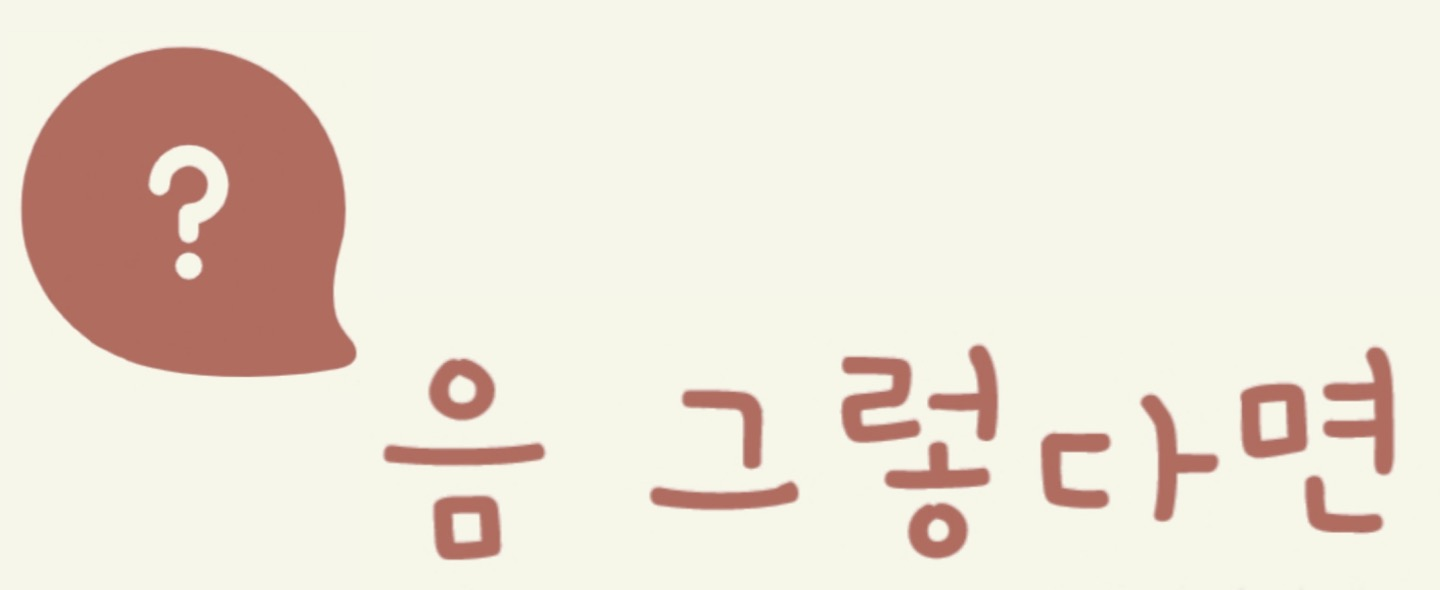
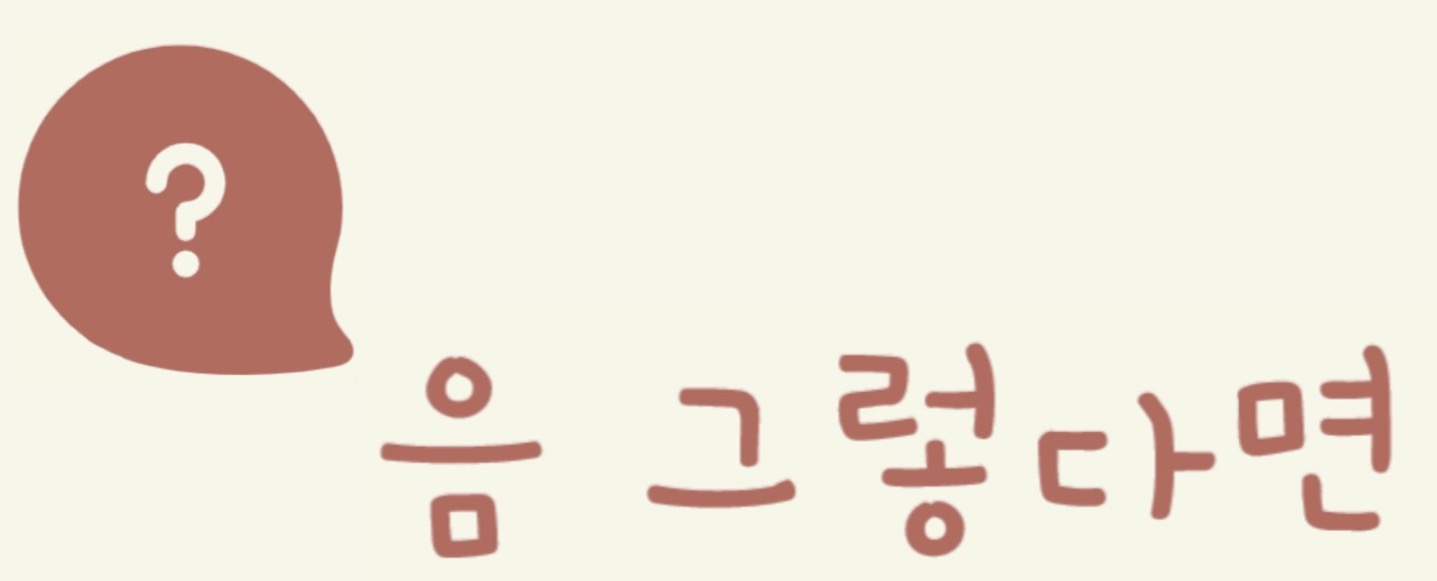
commit

diff --git a/static/js/redirect.js b/static/js/redirect.js
@@ -1,0 +1,177 @@
+/*
+jQuery Redirect v1.1.3
+Copyright (c) 2013-2018 Miguel Galante
+Copyright (c) 2011-2013 Nemanja Avramovic, www.avramovic.info
+Licensed under CC BY-SA 4.0 License: http://creativecommons.org/licenses/by-sa/4.0/
+This means everyone is allowed to:
+Share - copy and redistribute the material in any medium or format
+Adapt - remix, transform, and build upon the material for any purpose, even commercially.
+Under following conditions:
+Attribution - You must give appropriate credit, provide a link to the license, and indicate if changes were made. You may do so in any reasonable manner, but not in any way that suggests the licensor endorses you or your use.
+ShareAlike - If you remix, transform, or build upon the material, you must distribute your contributions under the same license as the original.
+*/
+;(function ($) {
+  'use strict';
+
+  //Defaults configuration
+  var defaults = {
+    url: null,
+    values: null,
+    method: "POST",
+    target: null,
+    traditional: false,
+    redirectTop: false
+  };
+
+  /**
+  * jQuery Redirect
+  * @param {string} url - Url of the redirection
+  * @param {Object} values - (optional) An object with the data to send. If not present will look for values as QueryString in the target url.
+  * @param {string} method - (optional) The HTTP verb can be GET or POST (defaults to POST)
+  * @param {string} target - (optional) The target of the form. "_blank" will open the url in a new window.
+  * @param {boolean} traditional - (optional) This provides the same function as jquery's ajax function. The brackets are omitted on the field name if its an array.  This allows arrays to work with MVC.net among others.
+  * @param {boolean} redirectTop - (optional) If its called from a iframe, force to navigate the top window.
+  *//**
+  * jQuery Redirect
+  * @param {string} opts - Options object
+  * @param {string} opts.url - Url of the redirection
+  * @param {Object} opts.values - (optional) An object with the data to send. If not present will look for values as QueryString in the target url.
+  * @param {string} opts.method - (optional) The HTTP verb can be GET or POST (defaults to POST)
+  * @param {string} opts.target - (optional) The target of the form. "_blank" will open the url in a new window.
+  * @param {boolean} opts.traditional - (optional) This provides the same function as jquery's ajax function. The brackets are omitted on the field name if its an array.  This allows arrays to work with MVC.net among others.
+  * @param {boolean} opts.redirectTop - (optional) If its called from a iframe, force to navigate the top window.
+  */
+  $.redirect = function (url, values, method, target, traditional, redirectTop) {
+    var opts = url;
+    if (typeof url !== "object") {
+      var opts = {
+        url: url,
+        values: values,
+        method: method,
+        target: target,
+        traditional: traditional,
+        redirectTop: redirectTop
+      };
+    }
+
+    var config = $.extend({}, defaults, opts);
+    var generatedForm = $.redirect.getForm(config.url, config.values, config.method, config.target, config.traditional);
+    $('body', config.redirectTop ? window.top.document : undefined).append(generatedForm.form);
+    generatedForm.submit();
+    generatedForm.form.remove();
+  };
+
+  $.redirect.getForm = function (url, values, method, target, traditional) {
+    method = (method && ["GET", "POST", "PUT", "DELETE"].indexOf(method.toUpperCase()) !== -1) ? method.toUpperCase() : 'POST';
+
+    url = url.split("#");
+    var hash = url[1] ? ("#" + url[1]) : "";
+    url = url[0];
+
+    if (!values) {
+      var obj = $.parseUrl(url);
+      url = obj.url;
+      values = obj.params;
+    }
+
+    values = removeNulls(values);
+
+    var form = $('<form>')
+      .attr("method", method)
+      .attr("action", url + hash);
+
+
+    if (target) {
+      form.attr("target", target);
+    }
+
+    var submit = form[0].submit;
+    iterateValues(values, [], form, null, traditional);
+
+    return { form: form, submit: function () { submit.call(form[0]); } };
+  }
+
+  //Utility Functions
+	/**
+	 * Url and QueryString Parser.
+	 * @param {string} url - a Url to parse.
+	 * @returns {object} an object with the parsed url with the following structure {url: URL, params:{ KEY: VALUE }}
+	 */
+  $.parseUrl = function (url) {
+
+    if (url.indexOf('?') === -1) {
+      return {
+        url: url,
+        params: {}
+      };
+    }
+    var parts = url.split('?'),
+      query_string = parts[1],
+      elems = query_string.split('&');
+    url = parts[0];
+
+    var i, pair, obj = {};
+    for (i = 0; i < elems.length; i += 1) {
+      pair = elems[i].split('=');
+      obj[pair[0]] = pair[1];
+    }
+
+    return {
+      url: url,
+      params: obj
+    };
+  };
+
+  //Private Functions
+  var getInput = function (name, value, parent, array, traditional) {
+    var parentString;
+    if (parent.length > 0) {
+      parentString = parent[0];
+      var i;
+      for (i = 1; i < parent.length; i += 1) {
+        parentString += "[" + parent[i] + "]";
+      }
+
+      if (array) {
+        if (traditional)
+          name = parentString;
+        else
+          name = parentString + "[" + name + "]";
+      } else {
+        name = parentString + "[" + name + "]";
+      }
+    }
+
+    return $("<input>").attr("type", "hidden")
+      .attr("name", name)
+      .attr("value", value);
+  };
+
+  var iterateValues = function (values, parent, form, isArray, traditional) {
+    var i, iterateParent = [];
+    Object.keys(values).forEach(function (i) {
+      if (typeof values[i] === "object") {
+        iterateParent = parent.slice();
+        iterateParent.push(i);
+        iterateValues(values[i], iterateParent, form, Array.isArray(values[i]), traditional);
+      } else {
+        form.append(getInput(i, values[i], parent, isArray, traditional));
+      }
+    });
+  };
+
+  var removeNulls = function (values) {
+    var propNames = Object.getOwnPropertyNames(values);
+    for (var i = 0; i < propNames.length; i++) {
+      var propName = propNames[i];
+      if (values[propName] === null || values[propName] === undefined) {
+        delete values[propName];
+      } else if (typeof values[propName] === 'object') {
+        values[propName] = removeNulls(values[propName]);
+      } else if (values[propName].length < 1) {
+        delete values[propName];
+      }
+    }
+    return values;
+  };
+}(window.jQuery || window.Zepto || window.jqlite));

diff --git a/templates/home.html b/templates/home.html
@@ -1,4 +1,4 @@
-<!DOCTYPE html> 
+<!DOCTYPE html>
 <html lang="kr">
 <head>
     <meta charset="UTF-8">
@@ -10,7 +10,13 @@
     <link rel="stylesheet" href="../static/style.css">
     <link rel="stylesheet" href="https://cdnjs.cloudflare.com/ajax/libs/animate.css/4.1.1/animate.min.css"/>
     <link href="https://fonts.googleapis.com/css2?family=Nanum+Pen+Script&display=swap" rel="stylesheet">
-
+    <script src="../static/js/redirect.js"></script>
+    <script >
+        var test_msg;
+        function test(){
+            $.redirect('/result', {msg:test_msg});
+        }
+    </script>
 </head>
 <body>
     <div id="wrapper">
@@ -48,7 +54,7 @@
                 <p>오늘 당신의 기분은!</p>
                 <p>기쁨, 슬픔, 무관심</p>
                 <div id="home-container_recommend">
-                    <button style="width: 200px; font-size: 24px;" class="submitButton" onclick="window.location.href='/result'">오늘 우리가<br>당신에게 할 추천은?</button>
+                    <button style="width: 200px; font-size: 24px;" class="submitButton" onclick="test()"> 오늘 우리가<br>당신에게 할 추천은?</button>
                 </div>
             </div>
 

diff --git a/templates/second.html b/templates/second.html
@@ -86,7 +86,7 @@
         </div>
     </div>
     <div class="second_container">
-        <p style="font-size: 35px; font-weight: bold; margin: 30px">음 그렇다면...</p>
+        <img src="../static/image/umm.jpeg"/>
         <div class="accordion accordion-flush" id="accordionFlushExample">
             <div class="accordion-item">
                 <h2 class="accordion-header" id="flush-headingOne">
@@ -124,7 +124,7 @@
                 </div>
             </div>
         </div>
-        <button class="button_wrapper" type="button" onclick="window.location.href='/home'" style="margin-top: 20px">다시</button>
+        <button class="button_wrapper" type="button" onclick="window.location.href='/home'" style="margin: 50px 0 50px 0">다시 해 볼래!</button>
     </div>
 </div>
 <script src="../static/js/bootstrap.js"></script>

diff --git a/static/second.css b/static/second.css
@@ -1,3 +1,11 @@
+.second_container > img {
+    max-width: 360px;
+    max-height: 180px;
+    width: 50vw;
+    height: 16vw;
+    margin-bottom: 50px;
+}
+
 .second_container {
     display: flex;
     flex-direction: column;
@@ -52,8 +60,7 @@
     color: white;
     border-radius: 30px;
     padding: 10px;
-    font-size: 18px;
+    font-size: 24px;
     border: none;
     cursor: pointer;
-    margin: 0px 0 50px 0;
 }

diff --git a/static/result.css b/static/result.css
@@ -227,7 +227,7 @@
 }
 
 .button_wrapper {
-    width: 110px;
+    width: 180px;
     display: flex;
     justify-content: center;
     align-items: center;
@@ -235,7 +235,7 @@
     color: white;
     border-radius: 30px;
     padding: 10px;
-    font-size: 18px;
+    font-size: 24px;
     border: none;
     cursor: pointer;
     margin-bottom: 50px;

diff --git a/templates/result.html b/templates/result.html
@@ -13,6 +13,7 @@
 </head>
 
 <script>
+    var get_result_data = '{{msg}}';
     window.onload = function get_data() {
         $.ajax({
             type: "POST",
